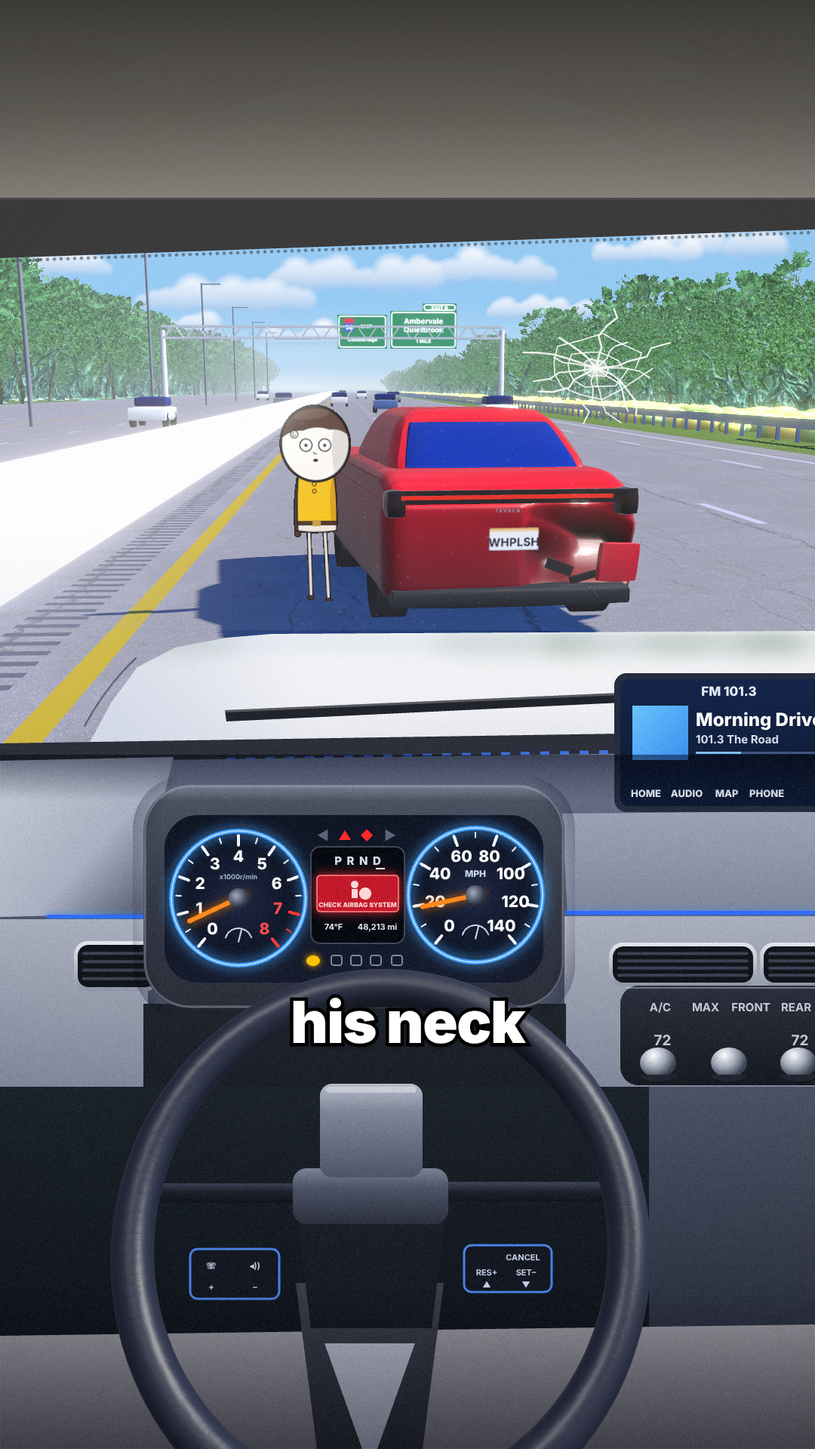
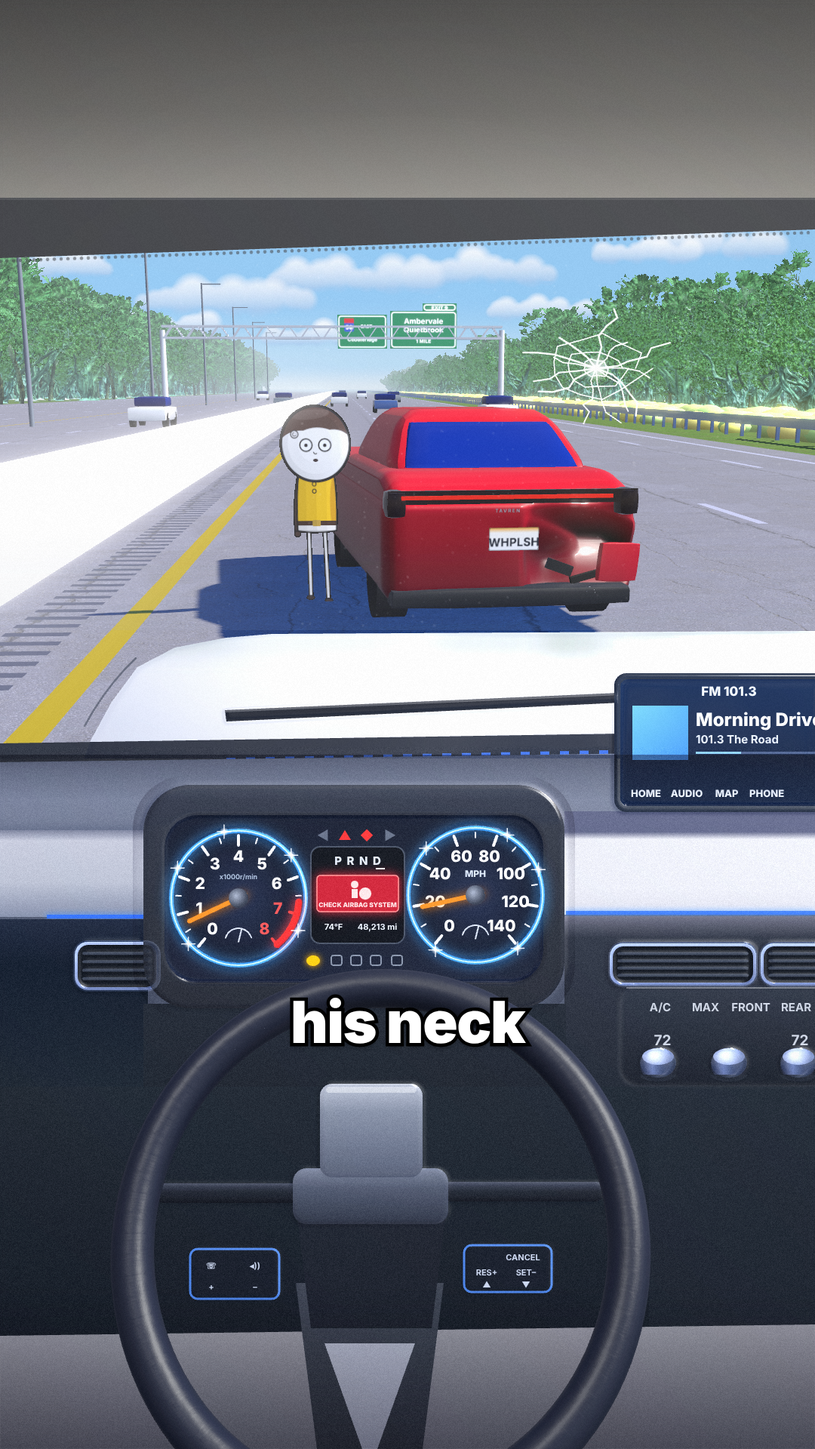
Frame autostrada v4: riflessi reali su abitacolo e personaggio
Le superfici dipinte ricevono riflessi calcolati (cielo HDR e sole)
tramite rilievo, inclinazione e mappa rugosità/metallo; plancia
ridipinta sui campioni a griglia; cromature vere; ombreggiatura reale
sulla testa del personaggio. Abitacolo da 45,7 a 38,2, totale 38,6.
Skill migliora-frame aggiornata con la tecnica.

Claude-Session: https://claude.ai/code/session_01NNpzzjoSz9r9DDuiBX5YrP

diff --git a/esempi/frame-autostrada/scene.js b/esempi/frame-autostrada/scene.js
@@ -26,6 +26,28 @@ function lin(g, x0, y0, x1, y1, stops) { const gr = g.createLinearGradient(x0, y
 function rad(g, x, y, r0, r1, stops) { const gr = g.createRadialGradient(x, y, r0, x, y, r1); stops.forEach(([o, c]) => gr.addColorStop(o, c)); return gr; }
 function poly(g, pts) { g.beginPath(); pts.forEach(([x, y], i) => i ? g.lineTo(x, y) : g.moveTo(x, y)); g.closePath(); }
 
+// Riflessi reali sulle superfici dipinte: da un canvas di RILIEVO (grigio = altezza) e uno di INCLINAZIONE
+// (R,G = normale di base della zona) si ricava una normal map; il materiale fisico la usa per riflettere cielo HDR e sole.
+function reliefNormal(relief, tilt, strength) {
+  const w = relief.width, h = relief.height, H0 = relief.getContext('2d').getImageData(0, 0, w, h).data;
+  const T0 = tilt ? tilt.getContext('2d').getImageData(0, 0, w, h).data : null;
+  const out = document.createElement('canvas'); out.width = w; out.height = h;
+  const g = out.getContext('2d'), id = g.createImageData(w, h), o = id.data;
+  const hh = (x, y) => H0[((y < 0 ? 0 : y >= h ? h - 1 : y) * w + (x < 0 ? 0 : x >= w ? w - 1 : x)) * 4];
+  for (let y = 0; y < h; y++) for (let x = 0; x < w; x++) {
+    const i = (y * w + x) * 4;
+    let nx = -(hh(x + 1, y) - hh(x - 1, y)) / 255 * strength, ny = (hh(x, y + 1) - hh(x, y - 1)) / 255 * strength; // y del canvas va in giù
+    if (T0) { nx += (T0[i] - 128) / 127; ny += (T0[i + 1] - 128) / 127; }
+    const l = Math.hypot(nx, ny, 1);
+    o[i] = 128 + 127 * nx / l; o[i + 1] = 128 + 127 * ny / l; o[i + 2] = 128 + 127 / l; o[i + 3] = 255;
+  }
+  g.putImageData(id, 0, 0);
+  const t = new THREE.CanvasTexture(out); t.colorSpace = THREE.NoColorSpace; return t;
+}
+function rawCanvas(w, h, draw) { const c = document.createElement('canvas'); c.width = w; c.height = h; draw(c.getContext('2d'), w, h); return c; }
+const tiltCol = (nx, ny) => `rgb(${Math.round(128 + 127 * nx)},${Math.round(128 + 127 * ny)},255)`;
+const dataTex = c => { const t = new THREE.CanvasTexture(c); t.colorSpace = THREE.NoColorSpace; return t; };
+
 // ---------- renderer ----------
 const renderer = new THREE.WebGLRenderer({ antialias: true, preserveDrawingBuffer: true });
 renderer.setSize(W, H); renderer.setPixelRatio(1);
@@ -418,7 +440,6 @@ const charTex = canvas(512, 1024, (g, w, h) => {
   const head = () => { g.beginPath(); g.ellipse(256, 198, 176, 188, 0, 0, 7); };
   g.fillStyle = '#fbf8f4'; head(); g.fill();
   g.save(); head(); g.clip();
-  g.fillStyle = 'rgba(160,150,150,.28)'; g.beginPath(); g.ellipse(410, 230, 70, 200, 0, 0, 7); g.fill();
   // capelli castani a calotta (fino a ~1/3 della testa)
   g.fillStyle = '#5f4338';
   g.beginPath(); g.moveTo(70, 190); g.quadraticCurveTo(60, -10, 256, 8); g.quadraticCurveTo(452, -10, 446, 180);
@@ -448,6 +469,28 @@ const charTex = canvas(512, 1024, (g, w, h) => {
   card.customDepthMaterial = new THREE.MeshDepthMaterial({ depthPacking: THREE.RGBADepthPacking, map: charTex, alphaTest: .5 });
   card.lookAt(camera.position.x, card.position.y, camera.position.z);
   scene.add(card);
+  // riflessi reali sul personaggio: il disegno resta piatto, ma un rilievo (testa a cupola, busto bombato)
+  // fa calcolare al motore il riflesso del sole e del cielo, sommato sopra il disegno
+  const relief = rawCanvas(512, 1024, g => {
+    g.fillStyle = '#000'; g.fillRect(0, 0, 512, 1024);
+    const dome = (cx, cy, rx, ry) => { g.save(); g.translate(cx, cy); g.scale(rx, ry);
+      g.fillStyle = rad(g, 0, 0, 0, 1, [[0, '#fff'], [.5, '#ddd'], [.8, '#999'], [.95, '#444'], [1, '#000']]); g.beginPath(); g.arc(0, 0, 1, 0, 7); g.fill(); g.restore(); };
+    g.fillStyle = lin(g, 150, 0, 362, 0, [[0, '#000'], [.25, '#888'], [.5, '#bbb'], [.75, '#888'], [1, '#000']]); g.fillRect(150, 340, 212, 300);   // busto
+    dome(256, 198, 176, 188);                                                                                                                  // testa
+  });
+  const maskTex = canvas(512, 1024, g => { g.drawImage(charTex.image, 0, 0); g.globalCompositeOperation = 'source-in'; g.fillStyle = '#000'; g.fillRect(0, 0, 512, 1024); });
+  const gloss = new THREE.Mesh(card.geometry, new THREE.MeshPhysicalMaterial({
+    map: maskTex, normalMap: reliefNormal(relief, null, 9), roughness: .3, ior: 1.6, envMapIntensity: .9,
+    transparent: true, blending: THREE.AdditiveBlending, depthWrite: false, fog: false, side: THREE.DoubleSide, polygonOffset: true, polygonOffsetFactor: -2 }));
+  gloss.position.copy(card.position); gloss.quaternion.copy(card.quaternion); gloss.renderOrder = 3; scene.add(gloss);
+  // ombreggiatura reale: lo stesso rilievo, illuminato dal sole e dal cielo della scena, moltiplicato sul disegno
+  // (lato al sole invariato, lato opposto più scuro: nel riferimento la testa passa da #fdfdfc a #d6d3da)
+  const whiteMask = canvas(512, 1024, g => { g.drawImage(charTex.image, 0, 0); g.globalCompositeOperation = 'source-in'; g.fillStyle = '#fff'; g.fillRect(0, 0, 512, 1024); });
+  const shade = new THREE.Mesh(card.geometry, new THREE.MeshStandardMaterial({
+    map: whiteMask, alphaTest: .5, normalMap: gloss.material.normalMap, roughness: 1, envMapIntensity: .5, color: new THREE.Color().setScalar(1.75),   // >1: il lato al sole resta pieno, l'altro scende a ~0,7
+   
+    transparent: true, blending: THREE.MultiplyBlending, depthWrite: false, fog: false, side: THREE.DoubleSide, polygonOffset: true, polygonOffsetFactor: -1 }));
+  shade.position.copy(card.position); shade.quaternion.copy(card.quaternion); shade.renderOrder = 2; scene.add(shade);
 }
 
 // ============ ABITACOLO: livello dipinto a pixel esatti + volante 3D ============
@@ -494,19 +537,19 @@ const cockpitTex = canvas(W, H, (g) => {
   g.fillStyle = '#3f6fe0'; for (let x = 300; x < 800; x += 26) { const y = 1004 - (x - 300) / 500 * 10; g.fillRect(x, y, 12, 5); }
   g.fillStyle = lin(g, 0, 1000, 0, 1220, [[0, '#7a849e'], [.25, '#646d86'], [1, '#4b5367']]); poly(g, [[0, 1010], [W, 995], [W, 1920], [0, 1920]]); g.fill();
   // parte sinistra più chiara (illuminata)
-  g.fillStyle = lin(g, 0, 1000, 220, 1200, [[0, '#c6cbd7'], [.6, '#aab1c2'], [1, 'rgba(150,158,176,0)']]);
-  g.beginPath(); g.moveTo(0, 1008); g.lineTo(230, 1003); g.quadraticCurveTo(200, 1120, 196, 1210); g.lineTo(0, 1215); g.closePath(); g.fill();
+  // (campionata a griglia: fascia chiara solo tra y 1105 e 1215, #bfc1d0 → #8089a1)
+  g.fillStyle = lin(g, 0, 1100, 0, 1215, [[0, '#747a92'], [.12, '#c1c4d3'], [.6, '#b6bbca'], [1, '#8089a1']]); g.fillRect(0, 1100, 192, 115);
   // parte destra
-  g.fillStyle = lin(g, 0, 1075, 0, 1215, [[0, '#9aa2b5'], [1, '#7d859a']]);
-  g.beginPath(); g.moveTo(745, 1078); g.lineTo(W, 1075); g.lineTo(W, 1212); g.lineTo(752, 1212); g.closePath(); g.fill();
+  g.fillStyle = lin(g, 0, 1075, 0, 1212, [[0, '#474d6e'], [.2, '#474d6e'], [.27, '#d1d3dc'], [.75, '#d0d2dc'], [1, '#c4c6d1']]); g.fillRect(748, 1075, 332, 137);
   // strisce LED blu
   g.fillStyle = '#2f6cff'; g.shadowColor = '#3f8cff'; g.shadowBlur = 8;
   g.fillRect(62, 1212, 130, 5); g.fillRect(750, 1207, 330, 5); g.shadowBlur = 0;
   // pannello frontale sotto la linea LED (chiaro ai lati, scuro dietro il volante)
-  g.fillStyle = lin(g, 0, 1218, 0, 1450, [[0, '#a9afbe'], [1, '#7f8699']]); g.fillRect(0, 1218, 196, 232); g.fillRect(748, 1214, 332, 236);
+  g.fillStyle = lin(g, 0, 1218, 0, 1450, [[0, '#1b2437'], [.25, '#0d1624'], [1, '#182029']]); g.fillRect(0, 1218, 196, 232);            // misurato: tutto scuro sotto i LED
+  g.fillStyle = lin(g, 0, 1214, 0, 1450, [[0, '#6a6b7d'], [.12, '#2a2f3b'], [1, '#1b2029']]); g.fillRect(748, 1214, 332, 236);
   g.fillStyle = lin(g, 0, 1335, 0, 1500, [[0, '#1d232c'], [1, '#161b22']]); g.fillRect(190, 1330, 560, 170);   // misurato: #181d23
   g.fillStyle = lin(g, 0, 1440, 0, 1760, [[0, '#1a2129'], [1, '#10151d']]); g.fillRect(0, 1440, W, 330);      // misurato: #172029 → #10121f
-  g.fillStyle = lin(g, 0, 1450, 0, 1760, [[0, '#4a5163'], [1, '#2a3040']]); g.fillRect(860, 1440, 220, 320);
+  g.fillStyle = lin(g, 0, 1450, 0, 1760, [[0, '#1b222b'], [1, '#161b24']]); g.fillRect(860, 1440, 220, 320);
   // pannello basso chiaro (ginocchiera) e piantone a V
   g.fillStyle = lin(g, 0, 1755, 0, 1920, [[0, '#9a99a1'], [1, '#7a7982']]); poly(g, [[0, 1770], [W, 1755], [W, 1920], [0, 1920]]); g.fill();
   g.fillStyle = lin(g, 0, 1700, 0, 1920, [[0, '#3a3f4b'], [1, '#2a2e38']]); poly(g, [[392, 1700], [588, 1700], [560, 1920], [420, 1920]]); g.fill();
@@ -514,7 +557,7 @@ const cockpitTex = canvas(W, H, (g) => {
 
   // --- bocchette (cornice cromata, lamelle)
   const vent = (x, y, w, h) => {
-    g.fillStyle = lin(g, 0, y - 4, 0, y + h + 4, [[0, '#e4e7ee'], [1, '#8e95a6']]); rr(g, x - 5, y - 5, w + 10, h + 10, 18); g.fill();
+    g.fillStyle = lin(g, 0, y - 4, 0, y + h + 4, [[0, '#9fb0d6'], [1, '#4d5a80']]); rr(g, x - 4, y - 4, w + 8, h + 8, 17); g.fill();
     g.fillStyle = '#0f131a'; rr(g, x, y, w, h, 14); g.fill();
     g.strokeStyle = '#3a4252'; g.lineWidth = 4; for (let i = 1; i < 5; i++) { g.beginPath(); g.moveTo(x + 8, y + i * h / 5); g.lineTo(x + w - 8, y + i * h / 5); g.stroke(); }
   };
@@ -526,7 +569,8 @@ const cockpitTex = canvas(W, H, (g) => {
   [['A/C', 875], ['MAX', 935], ['FRONT', 995], ['REAR', 1055]].forEach(([t, x]) => g.fillText(t, x, 1340));
   g.font = '700 19px Inter'; g.fillText('72', 878, 1385); g.fillText('72', 1060, 1385);
   for (const x of [872, 966, 1058]) {
-    g.fillStyle = rad(g, x - 6, 1398, 2, 30, [[0, '#f4f6fa'], [.5, '#a4abba'], [1, '#3a4150']]); g.beginPath(); g.ellipse(x, 1408, 24, 20, 0, 0, 7); g.fill();
+    g.fillStyle = lin(g, x - 24, 0, x + 24, 0, [[0, '#1c2130'], [.35, '#56628a'], [.6, '#2a3146'], [1, '#12151e']]); g.beginPath(); g.ellipse(x, 1412, 24, 20, 0, 0, 7); g.fill();
+    g.fillStyle = rad(g, x - 5, 1398, 1, 22, [[0, '#dfe6f6'], [.6, '#8794b6'], [1, '#4a5474']]); g.beginPath(); g.ellipse(x, 1400, 21, 11, 0, 0, 7); g.fill();
     g.fillStyle = '#20252f'; g.beginPath(); g.ellipse(x, 1424, 24, 9, 0, 0, Math.PI); g.fill();
   }
 
@@ -542,8 +586,8 @@ const cockpitTex = canvas(W, H, (g) => {
   [['HOME', 856], ['AUDIO', 910], ['MAP', 963], ['PHONE', 1016]].forEach(([t, x]) => g.fillText(t, x, 1056));
 
   // --- quadro strumenti
-  g.fillStyle = lin(g, 0, 1040, 0, 1338, [[0, '#8e95a6'], [.07, '#4a5060'], [.5, '#333845'], [1, '#2a2e39']]); rr(g, 190, 1040, 558, 296, 62); g.fill();
-  g.strokeStyle = 'rgba(200,206,220,.35)'; g.lineWidth = 3; rr(g, 192, 1042, 554, 292, 60); g.stroke();
+  g.fillStyle = lin(g, 0, 1040, 0, 1338, [[0, '#4a4f5c'], [.07, '#30343f'], [.5, '#262a33'], [1, '#20232b']]); rr(g, 190, 1040, 558, 296, 62); g.fill();
+  
   g.fillStyle = lin(g, 0, 1080, 0, 1302, [[0, '#0e1424'], [1, '#141a2c']]); rr(g, 218, 1080, 502, 222, 44); g.fill();
   const gauge = (cx, cy, r, ticks, labels, val, red) => {
     g.fillStyle = rad(g, cx, cy, 8, r, [[0, '#1a2440'], [.85, '#0c1222'], [1, '#0a0f1c']]); g.beginPath(); g.arc(cx, cy, r, 0, 7); g.fill();
@@ -566,9 +610,15 @@ const cockpitTex = canvas(W, H, (g) => {
     g.fillStyle = rad(g, cx - 3, cy - 3, 1, 15, [[0, '#9aa4ba'], [1, '#2c3344']]); g.beginPath(); g.arc(cx, cy, 13, 0, 7); g.fill();
   };
   gauge(316, 1190, 92, 16, ['0', '1', '2', '3', '4', '5', '6', '7', '8'], .09, .86);
+  g.strokeStyle = '#ff2a2a'; g.lineWidth = 9; g.shadowColor = '#ff3030'; g.shadowBlur = 14; g.beginPath(); g.arc(316, 1190, 80, Math.PI * 2.02, Math.PI * 2.28); g.stroke(); g.shadowBlur = 0;   // zona rossa
   g.fillStyle = '#9fb2cc'; g.font = '700 9px Inter'; g.fillText('x1000r/min', 316, 1165);
   gauge(630, 1186, 92, 14, ['0', '20', '40', '60', '80', '100', '120', '140'], .135, 0);
   g.fillStyle = '#d0dcef'; g.font = '800 12px Inter'; g.fillText('MPH', 630, 1162);
+  for (const [gx, gy, angs] of [[316, 1190, [3.6, 4.5, 5.6, .5, 2.4]], [630, 1186, [3.9, 5.2, 5.9, .9, 2.2]]]) for (const a of angs) {   // bagliori a stella
+    const x = gx + Math.cos(a) * 90, y = gy + Math.sin(a) * 90;
+    g.fillStyle = rad(g, x, y, 0, 6, [[0, 'rgba(255,255,255,1)'], [1, 'rgba(255,255,255,0)']]); g.beginPath(); g.arc(x, y, 6, 0, 7); g.fill();
+    g.strokeStyle = 'rgba(255,255,255,.85)'; g.lineWidth = 1.5; g.beginPath(); g.moveTo(x - 9, y); g.lineTo(x + 9, y); g.moveTo(x, y - 9); g.lineTo(x, y + 9); g.stroke();
+  }
   // display centrale
   g.fillStyle = '#05080f'; rr(g, 412, 1122, 124, 128, 12); g.fill(); g.strokeStyle = '#3d4658'; g.lineWidth = 2; rr(g, 412, 1122, 124, 128, 12); g.stroke();
   g.fillStyle = '#d8e0ee'; g.font = '800 15px Inter'; g.textAlign = 'center'; g.fillText('P  R  N  D', 474, 1146);
@@ -620,6 +670,58 @@ const cockpitTex = canvas(W, H, (g) => {
   g.fillStyle = lin(g, 0, 700, 0, 835, [[0, 'rgba(160,170,190,0)'], [1, 'rgba(160,170,190,.10)']]); g.fillRect(0, 700, W, 135);
 });
 // grana della pellicola + vignettatura, disegnate per ultime su tutto il frame
+// ---------- riflessi reali sull'abitacolo dipinto ----------
+const HOOD = [[W, 836], [360, 840], [300, 845], [232, 858], [182, 884], [148, 930], [118, 985], [100, 1040], [W, 1040]];
+const VENTS = [[103, 1252, 104, 56], [812, 1254, 186, 48], [1012, 1254, 90, 48]], KNOBS = [872, 966, 1058], GAUGES = [[316, 1190], [630, 1186]];
+// inclinazione di base: cofano e piano della plancia guardano in alto (riflettono il cielo), i pannelli verticali quasi no
+const cockTilt = rawCanvas(W, H, g => {
+  g.fillStyle = tiltCol(0, .1); g.fillRect(0, 0, W, H);
+  g.fillStyle = lin(g, 0, 0, W, 0, [[0, tiltCol(-.25, .9)], [.5, tiltCol(0, .95)], [1, tiltCol(.2, .9)]]); poly(g, HOOD); g.fill();
+  g.fillStyle = tiltCol(0, .75); poly(g, [[0, 1008], [W, 993], [W, 1085], [0, 1095]]); g.fill();
+  g.fillStyle = tiltCol(-.2, .55); g.fillRect(0, 1095, 215, 120); g.fillStyle = tiltCol(.1, .5); g.fillRect(748, 1085, 332, 127);
+  g.fillStyle = tiltCol(0, .1); rr(g, 218, 1080, 502, 222, 44); g.fill(); rr(g, 822, 900, 290, 168, 10); g.fill();   // vetri di quadro e radio, inclinati all'indietro
+  g.fillStyle = tiltCol(0, .4); rr(g, 424, 1436, 136, 124, 16); g.fill();
+});
+const cockTiltSoft = rawCanvas(W, H, g => { g.filter = 'blur(5px)'; g.drawImage(cockTilt, 0, 0); });
+// rilievo: cornici e cromature sporgono, schermi e bocchette rientrano
+const cockRelief = rawCanvas(W, H, g => {
+  g.fillStyle = '#808080'; g.fillRect(0, 0, W, H);
+  g.strokeStyle = '#303030'; g.lineWidth = 3; g.beginPath(); g.moveTo(180, 872); g.quadraticCurveTo(140, 910, 112, 962); g.stroke();   // piega del cofano
+  g.fillStyle = '#d0d0d0'; poly(g, [[298, 941], [822, 918], [824, 931], [300, 956]]); g.fill();                                        // tergicristallo
+  g.fillStyle = '#e0e0e0'; rr(g, 190, 1040, 558, 296, 62); g.fill(); g.fillStyle = '#707070'; rr(g, 218, 1080, 502, 222, 44); g.fill();  // cornice e vetro del quadro
+  g.fillStyle = '#d8d8d8'; rr(g, 814, 892, 300, 184, 16); g.fill(); g.fillStyle = '#909090'; rr(g, 822, 900, 290, 168, 10); g.fill();    // radio
+  for (const [x, y] of GAUGES) { g.strokeStyle = '#c8c8c8'; g.lineWidth = 7; g.beginPath(); g.arc(x, y, 89, 0, 7); g.stroke(); }
+  for (const [x, y, w, h] of VENTS) { g.fillStyle = '#f0f0f0'; rr(g, x - 6, y - 6, w + 12, h + 12, 18); g.fill(); g.fillStyle = '#383838'; rr(g, x, y, w, h, 14); g.fill();
+    g.strokeStyle = '#909090'; g.lineWidth = 5; for (let i = 1; i < 5; i++) { g.beginPath(); g.moveTo(x + 8, y + i * h / 5); g.lineTo(x + w - 8, y + i * h / 5); g.stroke(); } }
+  g.fillStyle = '#606060'; rr(g, 822, 1306, 290, 132, 24); g.fill();
+  for (const x of KNOBS) { g.fillStyle = rad(g, x, 1408, 2, 26, [[0, '#ffffff'], [.7, '#d0d0d0'], [1, '#606060']]); g.beginPath(); g.ellipse(x, 1408, 24, 20, 0, 0, 7); g.fill(); }
+  g.fillStyle = '#c0c0c0'; rr(g, 206, 1568, 190, 26, 10); g.fill(); rr(g, 586, 1566, 214, 26, 10); g.fill();
+  g.fillStyle = '#d0d0d0'; rr(g, 388, 1548, 206, 74, 18); g.fill(); g.fillStyle = '#f0f0f0'; rr(g, 424, 1436, 136, 124, 16); g.fill();
+  g.fillStyle = '#a8a8a8'; rr(g, 252, 1655, 118, 66, 10); g.fill(); rr(g, 615, 1650, 116, 62, 10); g.fill();
+});
+const cockReliefSoft = rawCanvas(W, H, g => { g.filter = 'blur(2.5px)'; g.drawImage(cockRelief, 0, 0); });
+// G = rugosità, B = metallo
+const RM = (rough, metal = 0) => `rgb(0,${Math.round(rough * 255)},${Math.round(metal * 255)})`;
+const chrome = (g, col) => {   // cornici delle bocchette, manopole, anelli degli strumenti
+  g.strokeStyle = col; g.fillStyle = col;
+  for (const [x, y, w, h] of VENTS) { g.lineWidth = 6; rr(g, x - 3, y - 3, w + 6, h + 6, 16); g.stroke(); }
+  for (const x of KNOBS) { g.beginPath(); g.ellipse(x, 1408, 24, 20, 0, 0, 7); g.fill(); }
+  for (const [x, y] of GAUGES) { g.lineWidth = 3; g.beginPath(); g.arc(x, y, 90, 0, 7); g.stroke(); }
+};
+const cockRM = rawCanvas(W, H, g => {
+  g.fillStyle = RM(.62); g.fillRect(0, 0, W, H);
+  g.fillStyle = RM(.2); poly(g, HOOD); g.fill();                                   // vernice del cofano
+  g.fillStyle = RM(.72); g.fillRect(0, 1005, W, 210);                              // plastica chiara della plancia
+  g.fillStyle = RM(.3); rr(g, 190, 1040, 558, 296, 62); g.fill();                  // cornice lucida
+  g.fillStyle = RM(.07); rr(g, 218, 1080, 502, 222, 44); g.fill(); rr(g, 822, 900, 290, 168, 10); g.fill();   // vetri
+  g.fillStyle = RM(.35); rr(g, 424, 1436, 136, 124, 16); g.fill(); rr(g, 388, 1548, 206, 74, 18); g.fill();
+  chrome(g, RM(.16, 1));
+});
+// colore speculare: nero = plastica/vernice (riflesso dielettrico), chiaro = cromo. L'alfa è quella dell'abitacolo dipinto.
+const cockSpec = canvas(W, H, g => {
+  g.fillStyle = '#000'; g.fillRect(0, 0, W, H); chrome(g, '#8d94a4');
+  g.globalCompositeOperation = 'destination-in'; g.drawImage(cockpitTex.image, 0, 0);
+});
 const grainTex = canvas(W, H, (g) => {
   const id = g.createImageData(W, H), px = id.data;
   for (let i = 0; i < px.length; i += 4) { const v = rnd() < .5 ? 0 : 255; px[i] = px[i + 1] = px[i + 2] = v; px[i + 3] = 4; }
@@ -631,6 +733,15 @@ const ovScene = new THREE.Scene(), wheelScene = new THREE.Scene(), grainScene = 
   const d = 1, plane = new THREE.Mesh(new THREE.PlaneGeometry(2 * d * TAN * ASP, 2 * d * TAN),
     new THREE.MeshBasicMaterial({ map: cockpitTex, transparent: true, depthWrite: false, depthTest: false, toneMapped: false }));
   plane.position.z = -d; ovScene.add(plane);
+  // secondo strato: solo i riflessi (cielo HDR + sole), calcolati dal motore e sommati al dipinto
+  const rm = dataTex(cockRM);
+  const spec = new THREE.Mesh(plane.geometry, new THREE.MeshPhysicalMaterial({
+    map: cockSpec, normalMap: reliefNormal(cockReliefSoft, cockTiltSoft, 9), roughnessMap: rm, metalnessMap: rm, roughness: 1, metalness: 1,
+    ior: 1.5, envMapIntensity: .28, transparent: true, blending: THREE.AdditiveBlending, depthTest: false, depthWrite: false }));
+  spec.position.z = -d; spec.renderOrder = 1; ovScene.add(spec);
+  ovScene.environment = scene.environment;
+  const sunIn = new THREE.DirectionalLight(0xfff6ea, 2.2);   // lo stesso sole del mondo, portato nello spazio della camera
+  sunIn.position.copy(SUN_DIR.clone().transformDirection(camera.matrixWorldInverse)); ovScene.add(sunIn);
   const gr = new THREE.Mesh(plane.geometry, new THREE.MeshBasicMaterial({ map: grainTex, transparent: true, depthTest: false, depthWrite: false, toneMapped: false }));
   gr.position.z = -d; grainScene.add(gr);
 }

diff --git a/esempi/frame-autostrada/CAMBIAMENTI.md b/esempi/frame-autostrada/CAMBIAMENTI.md
@@ -212,3 +212,47 @@ La zona degli alberi è la migliore di sempre. Le altre peggiorano di poco perch
 - **c07**: vetro e vernice calibrati sui campioni.
 
 **Lezione**: alzare la luminosità delle foto degli alberi non basta, perché il colore resta oliva. Bisogna moltiplicare ogni canale verso il verde campionato. Attenzione anche a `| head` dopo uno script Python: la pipe chiusa l'ha interrotto a metà e solo alcune foto erano state ricolorate.
+
+---
+
+# v4: riflessi reali su abitacolo e personaggio
+
+![abitacolo v3 a sinistra, v4 a destra](confronto/v3-vs-v4-abitacolo.jpg)
+
+Nella v3 il mondo 3D rifletteva il cielo HDR, ma l'abitacolo e il personaggio erano disegni piatti: nessun riflesso poteva toccarli. Nella v4 anche le superfici dipinte ricevono **luce e riflessi calcolati dal motore**, con lo stesso sole e lo stesso cielo del mondo.
+
+**Come funziona** (`reliefNormal` in `scene.js`):
+1. Accanto al disegno si dipingono altre tre mappe con le stesse coordinate: un **rilievo** in grigi (cornici e cromature sporgono, schermi e bocchette rientrano), un'**inclinazione** per zona (cofano e piano della plancia guardano in alto, i pannelli verticali no) e una mappa **rugosità/metallo** (vetro 0,07, vernice 0,2, cornice 0,3, plastica 0,6-0,7, cromo metallico).
+2. Da rilievo e inclinazione si ricava una normal map.
+3. Sopra il disegno si aggiunge uno strato con un materiale fisico nero che produce **solo riflessi** (cielo HDR + sole portato nello spazio della camera) e si somma al dipinto.
+
+| | v3 | v4 | perché |
+|---|---|---|---|
+| Plancia (base) | grigio chiaro quasi ovunque | **scura**, con due sole fasce chiare tra y 1105 e 1215 | campionata a griglia (13 righe × 9 colonne): sotto i LED è #0d1624-#1b2029, non grigia |
+| Cornice del quadro | gradiente dipinto chiaro | base scura + bordo lucido dato dal riflesso sullo smusso | nel riferimento è nera con un filo di luce in alto |
+| Bocchette, manopole, anelli | bianco dipinto | **cromo vero** (metallo, rugosità 0,16) sopra una base blu-acciaio | |
+| Quadranti | puliti | zona rossa luminosa 7-8, bagliori a stella sugli anelli | presenti nel riferimento |
+| Cofano | bianco con riflessi dipinti | vernice lucida che riflette il cielo | |
+| Personaggio | disegno piatto con una mezzaluna grigia dipinta | **ombreggiatura reale** (rilievo a cupola sulla testa e bombato sul busto, illuminato dal sole da destra e moltiplicato sul disegno) + strato di riflessi | nel riferimento la testa passa da #fdfdfc (destra) a #d6d3da (sinistra); ora da #eef5fb a #dde3f3 |
+
+**Metrica** (più basso = più simile):
+
+| | Tutto | Cielo + alberi | Strada + auto | Abitacolo |
+|---|---|---|---|---|
+| v3 (c07) | 42,5 | 30,6 | 43,3 | 45,7 |
+| v4 (d06) | **38,6** | 31,8 | 43,3 | **38,2** |
+
+**Iterazioni d01-d06:**
+- **d01**: riflessi troppo forti, un velo chiaro su tutto. Abitacolo da 45,7 a 59,9: bocciata.
+- **d02**: intensità dell'ambiente da 1,15 a 0,28. Torna a 46,9, ma il confronto ravvicinato mostra che il vero errore è la **base** della plancia, troppo chiara.
+- **d03**: plancia ridipinta sui campioni. Abitacolo a 38,7: il salto più grande dopo la v2.
+- **d04**: cornice scura, cromature, manopole, zona rossa e bagliori.
+- **d05**: ombreggiatura sul personaggio troppo scura (tutta la testa a #b4b9c5): il cartoncino guarda la camera e il sole arriva di lato.
+- **d06**: moltiplicatore a 1,75, così il lato al sole resta pieno. Tolta la mezzaluna dipinta, che stava dal lato sbagliato.
+
+**Lezioni:**
+- Prima di aggiungere riflessi, verificare la base con una griglia di campioni: i riflessi su un colore di base sbagliato non possono sembrare veri.
+- Un riflesso sommato non si vede su una superficie già bianca. Lì serve l'ombreggiatura in moltiplica.
+- Il cielo HDR è molto luminoso: per uno strato di soli riflessi l'intensità giusta è intorno a 0,3, non 1.
+
+**Cosa resta diverso:** il tratto del personaggio (nell'originale il contorno è più spesso), l'auto rossa (serve un modello vero), la pelle del volante (nell'originale ha riflessi più marcati).

diff --git a/.claude/skills/migliora-frame/SKILL.md b/.claude/skills/migliora-frame/SKILL.md
@@ -72,8 +72,14 @@ Quando forme e colori tornano, le superfici sembrano ancora "plastilina". Allora
 2. **Cielo HDR** del kit come `scene.environment`: i riflessi diventano veri. Abbassa `envMapIntensity` dove il riferimento non riflette (suolo 0,1; vernice 0,4-0,5; vetro scuro 0,1).
 3. **Vegetazione vera con impostori**: i modelli del kit (`kit-modelli-*.zip`) pesano decine di MB, quindi non istanziarli. Copia `bake.html` e `bake.js` nella scena, fotografa i modelli con la stessa direzione del sole, ricolora con `colore_impostori.py` verso il verde campionato e usali come `Sprite` con `center (0.5, 0)` e `alphaTest`. Moltiplica i canali: alzare solo la luminosità lascia il verde oliva.
 4. **Abitacolo e primo piano**: occlusione ambientale dipinta in moltiplica nei bordi e negli incavi, grana leggera (±7) sulle plastiche, riflessi sfocati del cielo sulle carrozzerie dipinte, normal map di tessuto sulla pelle.
-5. **Tutto il frame**: grana di pellicola (alfa ≈4/255) e vignettatura ≤12%, come ultimo passaggio. Di più peggiora sia la metrica sia l'aspetto.
-6. Verifica con il ciclo: la zona dove hai messo asset veri deve migliorare. Il resto può peggiorare di 1-2 punti perché il riferimento compresso è più liscio. Dichiaralo come scambio voluto.
+5. **Riflessi reali sulle superfici dipinte** (abitacolo, HUD, personaggi 2D). Un disegno piatto non riflette nulla, quindi:
+   - prima controlla la **base**: campiona il riferimento a griglia (per esempio 13 righe × 9 colonne con `campiona.py`) e ridipingi i colori sbagliati. I riflessi su una base sbagliata non sembrano mai veri;
+   - dipingi con le stesse coordinate un **rilievo** in grigi (sporgenze chiare, incavi scuri, sfumato 2-3 px), un'**inclinazione** per zona (R,G = normale di base: le superfici che guardano in alto riflettono il cielo) e una mappa **rugosità (G) / metallo (B)**;
+   - ricava la normal map (`reliefNormal` in `esempi/frame-autostrada/scene.js`) e aggiungi sopra il disegno uno strato `MeshPhysicalMaterial` con colore nero, `AdditiveBlending`, `scene.environment` HDR e un sole nella stessa direzione del mondo (`SUN_DIR.transformDirection(camera.matrixWorldInverse)` per ciò che è solidale alla camera). Il cromo ha colore chiaro e metallo 1;
+   - intensità dell'ambiente intorno a **0,3**: a 1 l'HDR stende un velo chiaro su tutto;
+   - sulle superfici **bianche** un riflesso sommato non si vede: aggiungi uno strato in `MultiplyBlending` (materiale bianco illuminato, `color` > 1 perché il lato al sole resti pieno, `alphaTest` sulla sagoma) che scurisce il lato in ombra. Così la testa di un personaggio 2D prende il volume di una sfera.
+6. **Tutto il frame**: grana di pellicola (alfa ≈4/255) e vignettatura ≤12%, come ultimo passaggio. Di più peggiora sia la metrica sia l'aspetto.
+7. Verifica con il ciclo: la zona dove hai messo asset veri deve migliorare. Il resto può peggiorare di 1-2 punti perché il riferimento compresso è più liscio. Dichiaralo come scambio voluto.
 
 ### 6. Documenta (sempre)
 Scrivi o aggiorna `CAMBIAMENTI.md` nella cartella della scena con:
